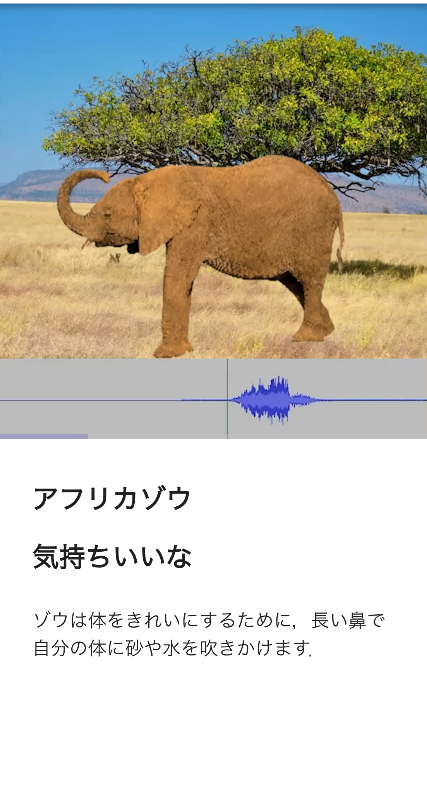
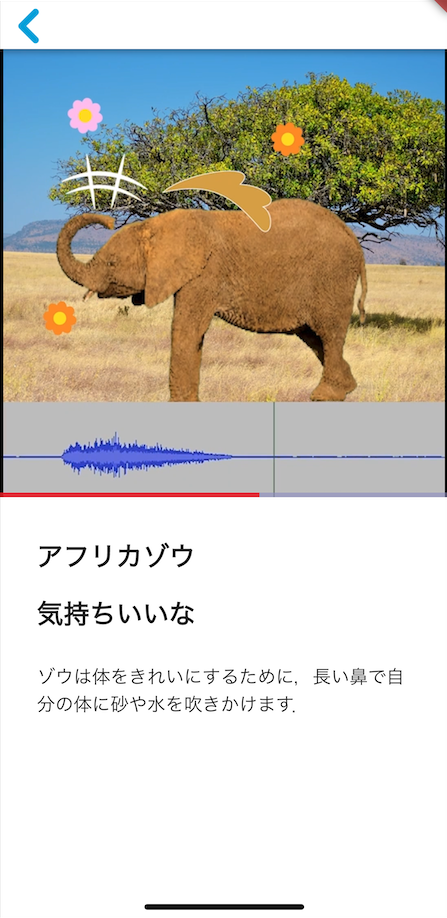
画像の差し替えなど

diff --git a/lib/pages/question_for_child_page.dart b/lib/pages/question_for_child_page.dart
@@ -387,8 +387,8 @@ class _QuestionForChildPageState extends State<QuestionForChildPage> {
                         child: Stack(
                           fit: StackFit.expand,
                           children: [
-                            Image.network(
-                              'https://firebasestorage.googleapis.com/v0/b/animal-onomatope.appspot.com/o/soundpageImage.png?alt=media&token=029fc9a0-842b-425e-9334-df22ee7dfef0',
+                            Image.asset(
+                              'assets/questions/sound_image.png',
                             ),
                             Align(
                               alignment: const Alignment(0, -.9),

diff --git a/lib/pages/animal_page.dart b/lib/pages/animal_page.dart
@@ -167,10 +167,12 @@ class _AnimalPageState extends State<AnimalPage> {
                               ),
                               child: SizedBox(
                                 width: 32,
-                                height: 32,
+                                height: 1,
                                 child: OverflowBox(
                                   minWidth: 100,
                                   maxWidth: 400,
+                                  minHeight: 80,
+                                  maxHeight: 80,
                                   child: Stack(
                                     children: [
                                       Text(
